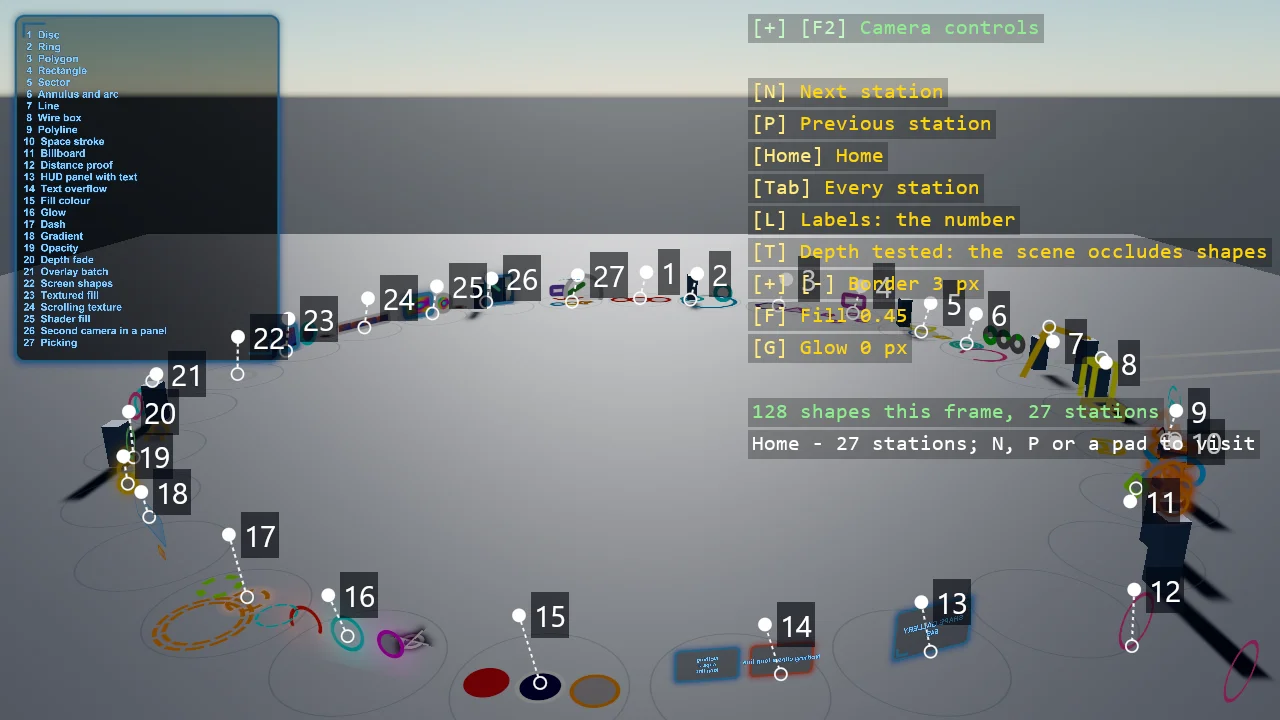
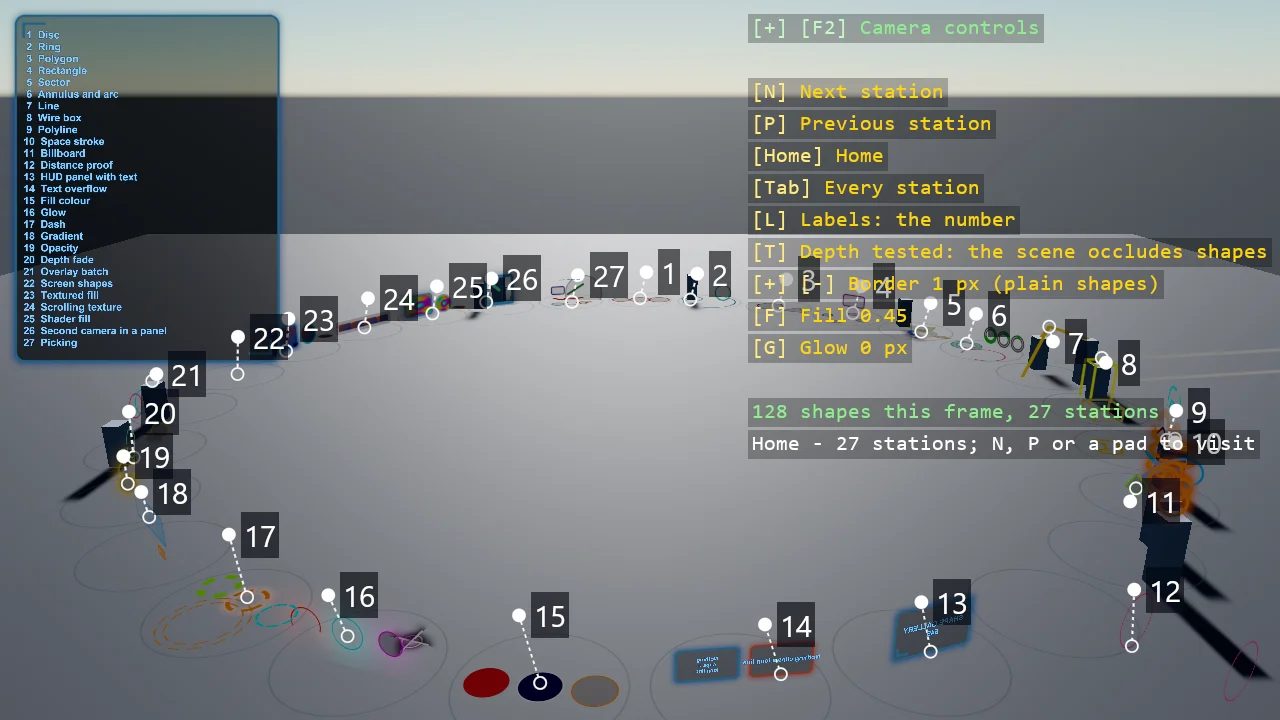
refactor: Examples updates

diff --git a/examples/code-only/E11_3D_ShapeBatch_Gallery/Program.cs b/examples/code-only/E11_3D_ShapeBatch_Gallery/Program.cs
@@ -27,7 +27,8 @@ using Stride.Rendering.Materials.ComputeColors;
 //
 // Keys: N and P fly to the next and previous station, Home flies home to the index board, Tab shows
 // one station at a time, L widens the labels, T switches the shapes between the depth-tested batch
-// and the overlay, G, F and + / - change the glow, the fill and the border for every station.
+// and the overlay, G, F and + / - change the glow, the fill and the border of the plain shapes. A
+// station that shows a recipe, such as a HUD panel, sets its own.
 
 // "--station 7" starts the visitor at a station instead of the index board - handy for screenshots
 var startStation = args.Length >= 2 && args[0] == "--station" && int.TryParse(args[1], out var number) ? number : 0;
@@ -178,7 +179,7 @@ IReadOnlyList<TextElement> BuildOverlayLines()
         new("Tab", gallery.Solo ? "One station at a time" : "Every station", Color.Gold),
         new("L", gallery.LabelDetail switch { 0 => "Labels: the number", 1 => "Labels: the number and the method", _ => "Labels: everything" }, Color.Gold),
         new("T", depthTested ? "Depth tested: the scene occludes shapes" : "Overlay: shapes draw on top", Color.Gold),
-        new(["+", "-"], $"Border {style.BorderWidth:0} px", Color.Gold),
+        new(["+", "-"], $"Border {style.BorderWidth:0} px (plain shapes)", Color.Gold),
         new("F", $"Fill {style.FillAlpha:0.00}", Color.Gold),
         new("G", $"Glow {style.GlowWidth:0} px", Color.Gold),
         new(""),

diff --git a/examples/code-only/E11_3D_ShapeBatch_Gallery/ShapeStation.cs b/examples/code-only/E11_3D_ShapeBatch_Gallery/ShapeStation.cs
@@ -23,7 +23,7 @@ public sealed record GalleryBatches(
 /// <summary>The three per-frame states the visitor changes with keys, applied to every station.</summary>
 public sealed class GalleryStyle
 {
-    public float BorderWidth { get; set; } = 3f;
+    public float BorderWidth { get; set; } = 1f;
     public float FillAlpha { get; set; } = 0.45f;
     public float GlowWidth { get; set; }
 }
